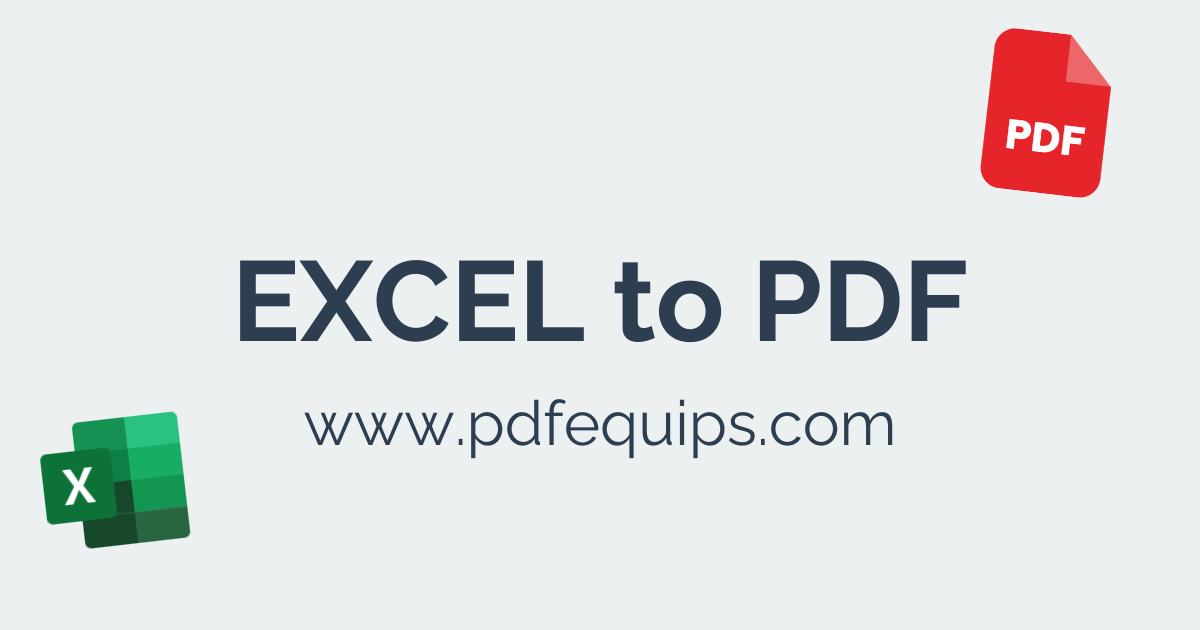
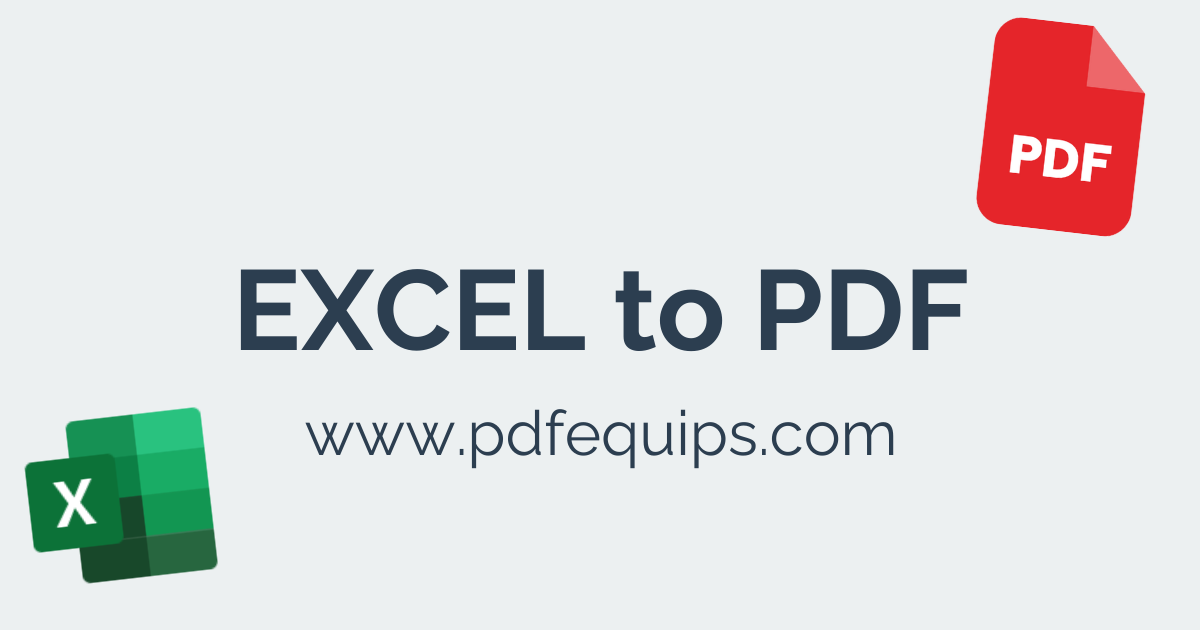
added open graph images for other languages to html-to-pdf

diff --git a/unzip_and_move.py b/unzip_and_move.py
@@ -1,0 +1,70 @@
+import os
+import zipfile
+import shutil
+
+def move_png_files(zip_folder_name):
+    # Check if PNG files already exist
+    png_files_exist = all([os.path.exists(f"{i}.png") for i in range(1, 7)])
+
+    if png_files_exist:
+        print("PNG files already exist. Moving them to their respective directories.")
+        for i in range(1, 7):
+            language_code = str(i)
+            if language_code == '1':
+                destination_dir = ''
+            elif language_code == '2':
+                destination_dir = './ar'
+            elif language_code == '3':
+                destination_dir = './es'
+            elif language_code == '4':
+                destination_dir = './fr'
+            elif language_code == '5':
+                destination_dir = './hi'
+            elif language_code == '6':
+                destination_dir = './zh'
+
+            if destination_dir:
+                shutil.move(f"{i}.png", os.path.join(destination_dir, f"{zip_folder_name.split('.')[0]}.png"))
+    else:
+        print("PNG files not found. Extracting zip folder.")
+        # Unzip the folder
+        with zipfile.ZipFile(zip_folder_name, 'r') as zip_ref:
+            zip_ref.extractall()
+
+        # Get the name of the zip folder (without the extension)
+        folder_name = os.path.splitext(zip_folder_name)[0]
+
+        # Check if the folder exists
+        if os.path.exists(folder_name):
+            # Loop through the extracted files
+            for file_name in os.listdir(folder_name):
+                # Get the file extension
+                _, extension = os.path.splitext(file_name)
+                if extension == '.png':
+                    # Determine the destination directory based on language code
+                    if file_name == '1.png':
+                        destination_dir = ''
+                    elif file_name == '2.png':
+                        destination_dir = './ar'
+                    elif file_name == '3.png':
+                        destination_dir = './es'
+                    elif file_name == '4.png':
+                        destination_dir = './fr'
+                    elif file_name == '5.png':
+                        destination_dir = './hi'
+                    elif file_name == '6.png':
+                        destination_dir = './zh'
+                    else:
+                        continue
+
+                    # Move the file to the appropriate directory
+                    shutil.move(os.path.join(folder_name, file_name), os.path.join(destination_dir, f"{folder_name}.png"))
+            
+            # Clean up: remove the extracted folder
+            os.rmdir(folder_name)
+        else:
+            print(f"Error: Failed to extract {zip_folder_name}")
+
+# Example usage:
+zip_folder_name = "html-to-pdf.zip"
+move_png_files(zip_folder_name)
